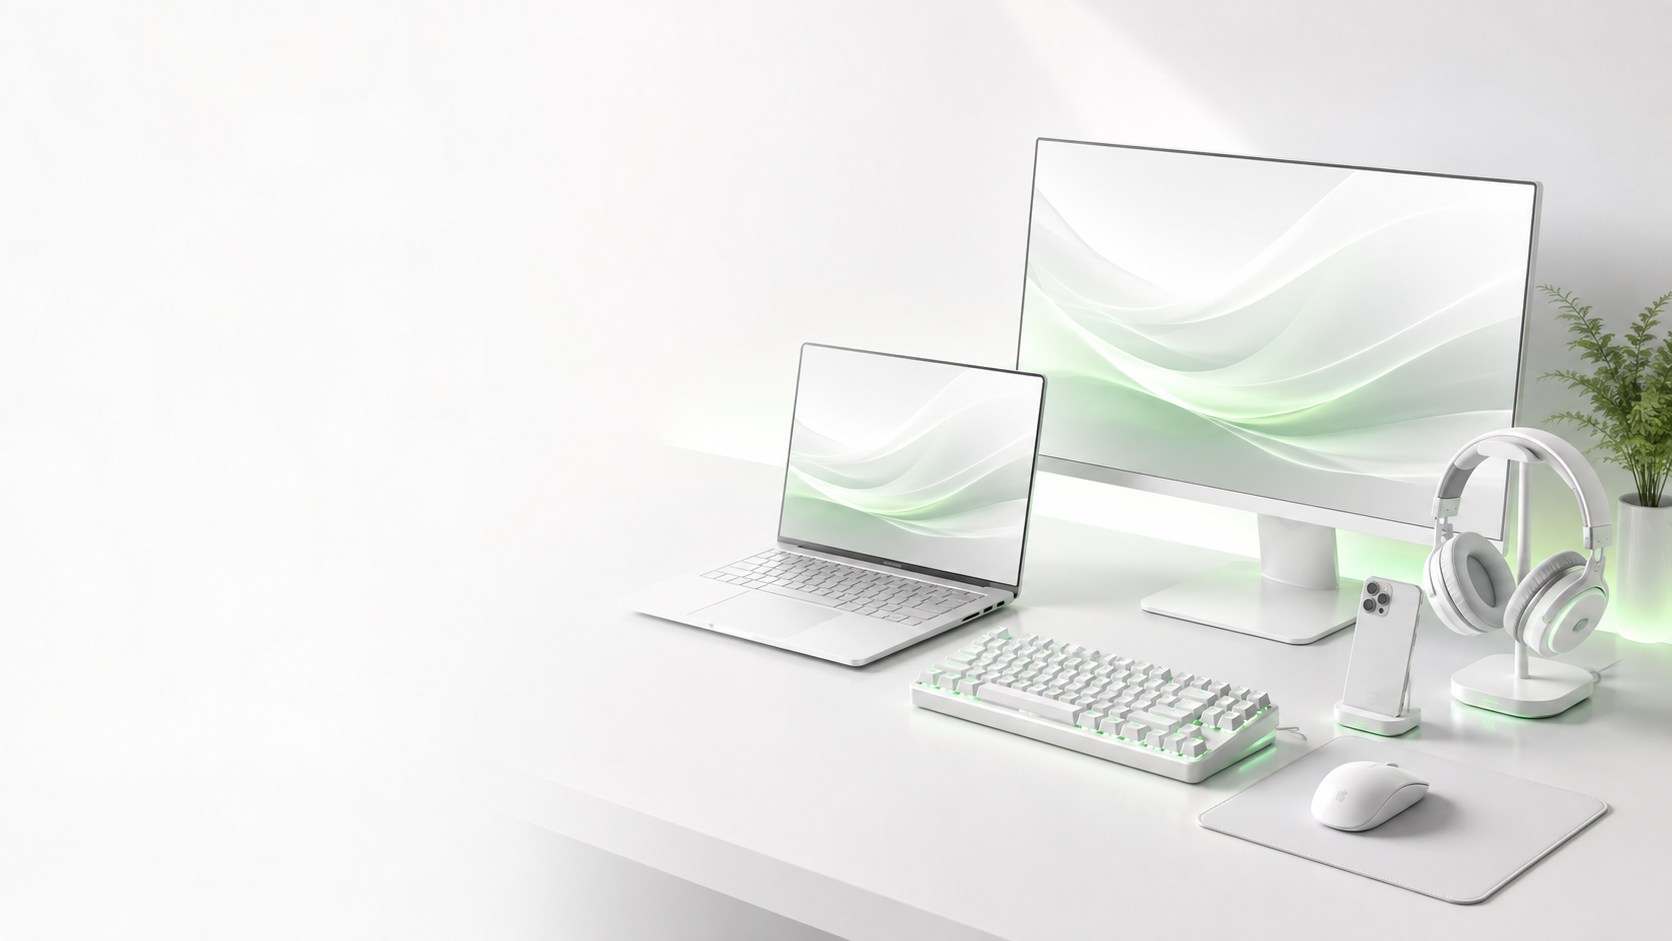
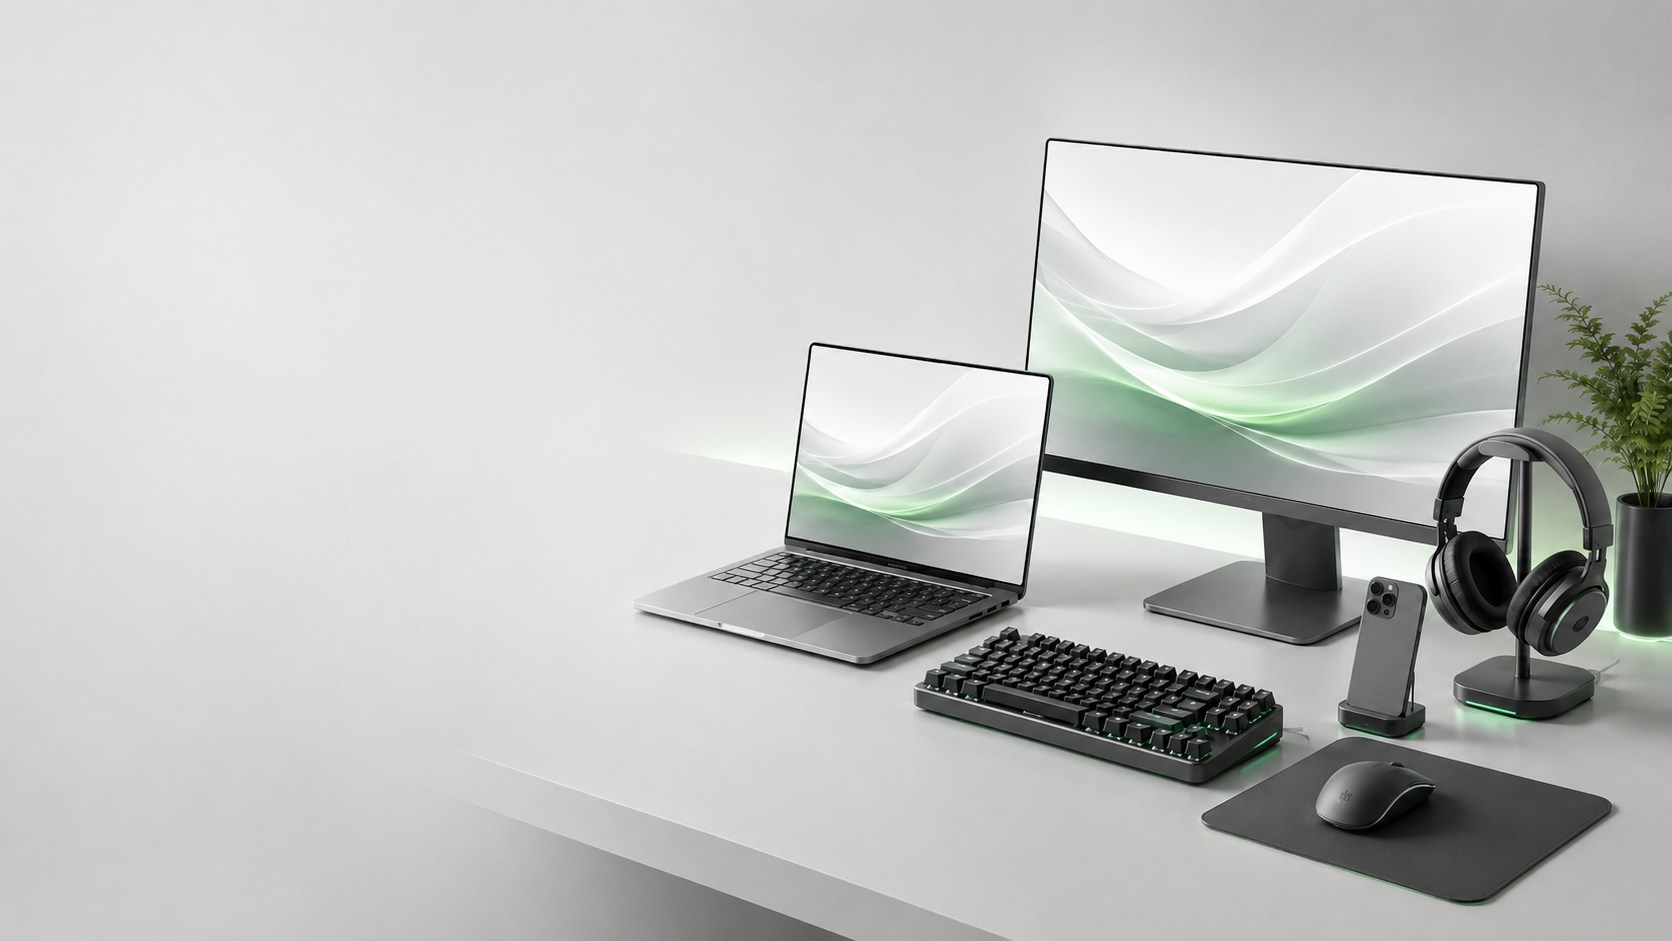
Hero: nueva foto con productos oscuros y efecto mas intenso
- hero.jpg reemplazado (1672x941, 138 KB). Mismo encuadre que la
  anterior, pero con los equipos en negro sobre el escritorio blanco.
- El efecto sube varios escalones: paleta a los verdes de marca, el
  nucleo del glow tinta al 0.88 y los velos bajan a 0.48 en pantallas
  anchas y 0.84 en angostas.

La foto nueva admite mas verde justo porque los productos son oscuros:
el multiply mantiene los negros, asi que el tinte se come el blanco del
escritorio sin borrar el monitor, el teclado ni los auriculares. Con la
foto anterior, toda blanca, ese mismo nivel los desdibujaba.

Sin desbordes a 375 ni 1440, los dos canvas activos y sin errores del
shader.

diff --git a/MAXING Home.dc.html b/MAXING Home.dc.html
@@ -160,7 +160,7 @@ article:hover [data-rb~="zoom"],
 /* Hero: en pantallas angostas el texto cae sobre los productos, no sobre
    el fondo vacio, asi que el velo pasa de horizontal a vertical. */
 @media (max-width: 900px) {
-  [data-rb~="hero-veil"] { background: linear-gradient(180deg, rgba(255,255,255,0.93) 0%, rgba(255,255,255,0.74) 48%, rgba(255,255,255,0.88) 100%) !important; }
+  [data-rb~="hero-veil"] { background: linear-gradient(180deg, rgba(255,255,255,0.84) 0%, rgba(255,255,255,0.56) 48%, rgba(255,255,255,0.78) 100%) !important; }
 }
 
 /* Catalogo: sidebar + listado. auto-fit generaba una columna de 0px y el
@@ -344,7 +344,7 @@ article:hover button { filter: brightness(1.08); }
     <canvas data-rb="velaris" data-velaris="claro" aria-hidden="true" style="position:absolute;inset:0;width:100%;height:100%;display:block;mix-blend-mode:multiply"></canvas>
     <!-- La foto ya es blanca a la izquierda; el velo solo asegura el contraste
          del texto oscuro cuando el recorte corre los productos hacia ese lado. -->
-    <div data-rb="hero-veil" aria-hidden="true" style="position:absolute;inset:0;background:linear-gradient(90deg,rgba(255,255,255,0.76) 0%,rgba(255,255,255,0.66) 30%,rgba(255,255,255,0.44) 52%,rgba(255,255,255,0.14) 74%,rgba(255,255,255,0) 88%)"></div>
+    <div data-rb="hero-veil" aria-hidden="true" style="position:absolute;inset:0;background:linear-gradient(90deg,rgba(255,255,255,0.48) 0%,rgba(255,255,255,0.36) 30%,rgba(255,255,255,0.18) 52%,rgba(255,255,255,0.04) 74%,rgba(255,255,255,0) 88%)"></div>
     <div style="position:relative;max-width:1320px;margin:0 auto;padding:clamp(44px,5vw,84px) 24px;min-height:clamp(450px,43vw,790px);display:flex;align-items:center">
       <div style="max-width:min(100%,580px)">
         <span data-rb="shiny-claro" style="display:inline-block;font-size:11px;font-weight:700;letter-spacing:0.14em;text-transform:uppercase">Tecnología · Informática · Gaming</span>
@@ -1085,7 +1085,7 @@ class Component extends DCLogic {
     "  col = mix(col, u_colors[3], smoothstep(0.0, 0.7, n1 * n2) * 0.5);",
     "  float glow = smoothstep(0.95, 0.0, dist) * 0.58;",
     "  col += u_colors[1] * glow * (1.0 - u_light);",
-    "  col = mix(col, u_colors[1], glow * u_light * 0.35);",
+    "  col = mix(col, u_colors[1], glow * u_light * 0.88);",
     // En oscuro la vinieta apaga los bordes; en claro los devuelve al fondo,
     // porque multiplicar por 0.38 ensuciaria la foto blanca de abajo.
     "  col = mix(mix(col * 0.38, u_bg, u_light), col, vignette);",
@@ -1114,7 +1114,7 @@ class Component extends DCLogic {
     const claro = canvas.getAttribute("data-velaris") === "claro";
     // Paleta del sitio: lima, verde de marca, esmeralda y negro.
     const COLORES = claro
-      ? ["#D6F2CB", "#BFEFB8", "#CBF0E7", "#9FDBBF"]
+      ? ["#8ADD5C", "#4FDD45", "#5FDCC2", "#28A566"]
       : ["#86DC2C", "#40DF36", "#16AE95", "#000000"];
     const FONDO = claro ? "#FFFFFF" : "#0D0D0D";
     const VELOCIDAD = 1.4, GRANO = claro ? 0.10 : 0.28;

diff --git a/index.html b/index.html
@@ -160,7 +160,7 @@ article:hover [data-rb~="zoom"],
 /* Hero: en pantallas angostas el texto cae sobre los productos, no sobre
    el fondo vacio, asi que el velo pasa de horizontal a vertical. */
 @media (max-width: 900px) {
-  [data-rb~="hero-veil"] { background: linear-gradient(180deg, rgba(255,255,255,0.93) 0%, rgba(255,255,255,0.74) 48%, rgba(255,255,255,0.88) 100%) !important; }
+  [data-rb~="hero-veil"] { background: linear-gradient(180deg, rgba(255,255,255,0.84) 0%, rgba(255,255,255,0.56) 48%, rgba(255,255,255,0.78) 100%) !important; }
 }
 
 /* Catalogo: sidebar + listado. auto-fit generaba una columna de 0px y el
@@ -344,7 +344,7 @@ article:hover button { filter: brightness(1.08); }
     <canvas data-rb="velaris" data-velaris="claro" aria-hidden="true" style="position:absolute;inset:0;width:100%;height:100%;display:block;mix-blend-mode:multiply"></canvas>
     <!-- La foto ya es blanca a la izquierda; el velo solo asegura el contraste
          del texto oscuro cuando el recorte corre los productos hacia ese lado. -->
-    <div data-rb="hero-veil" aria-hidden="true" style="position:absolute;inset:0;background:linear-gradient(90deg,rgba(255,255,255,0.76) 0%,rgba(255,255,255,0.66) 30%,rgba(255,255,255,0.44) 52%,rgba(255,255,255,0.14) 74%,rgba(255,255,255,0) 88%)"></div>
+    <div data-rb="hero-veil" aria-hidden="true" style="position:absolute;inset:0;background:linear-gradient(90deg,rgba(255,255,255,0.48) 0%,rgba(255,255,255,0.36) 30%,rgba(255,255,255,0.18) 52%,rgba(255,255,255,0.04) 74%,rgba(255,255,255,0) 88%)"></div>
     <div style="position:relative;max-width:1320px;margin:0 auto;padding:clamp(44px,5vw,84px) 24px;min-height:clamp(450px,43vw,790px);display:flex;align-items:center">
       <div style="max-width:min(100%,580px)">
         <span data-rb="shiny-claro" style="display:inline-block;font-size:11px;font-weight:700;letter-spacing:0.14em;text-transform:uppercase">Tecnología · Informática · Gaming</span>
@@ -1085,7 +1085,7 @@ class Component extends DCLogic {
     "  col = mix(col, u_colors[3], smoothstep(0.0, 0.7, n1 * n2) * 0.5);",
     "  float glow = smoothstep(0.95, 0.0, dist) * 0.58;",
     "  col += u_colors[1] * glow * (1.0 - u_light);",
-    "  col = mix(col, u_colors[1], glow * u_light * 0.35);",
+    "  col = mix(col, u_colors[1], glow * u_light * 0.88);",
     // En oscuro la vinieta apaga los bordes; en claro los devuelve al fondo,
     // porque multiplicar por 0.38 ensuciaria la foto blanca de abajo.
     "  col = mix(mix(col * 0.38, u_bg, u_light), col, vignette);",
@@ -1114,7 +1114,7 @@ class Component extends DCLogic {
     const claro = canvas.getAttribute("data-velaris") === "claro";
     // Paleta del sitio: lima, verde de marca, esmeralda y negro.
     const COLORES = claro
-      ? ["#D6F2CB", "#BFEFB8", "#CBF0E7", "#9FDBBF"]
+      ? ["#8ADD5C", "#4FDD45", "#5FDCC2", "#28A566"]
       : ["#86DC2C", "#40DF36", "#16AE95", "#000000"];
     const FONDO = claro ? "#FFFFFF" : "#0D0D0D";
     const VELOCIDAD = 1.4, GRANO = claro ? 0.10 : 0.28;
